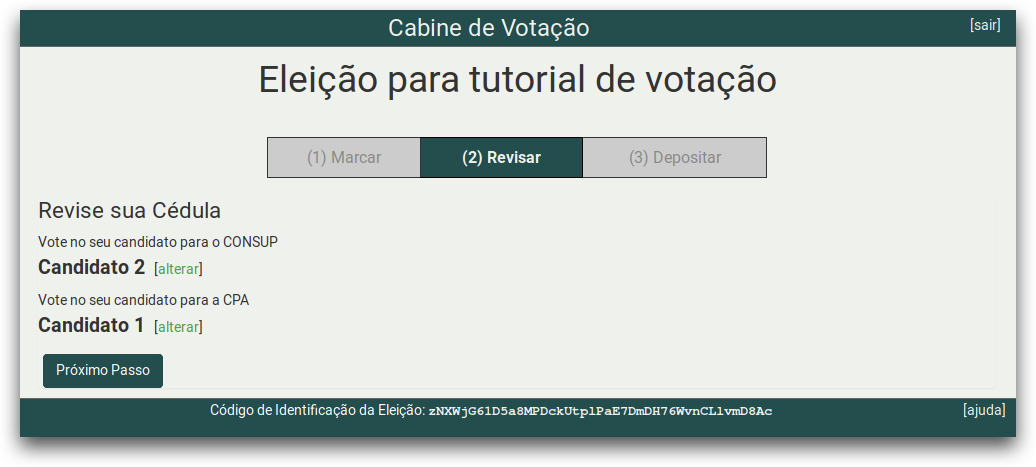
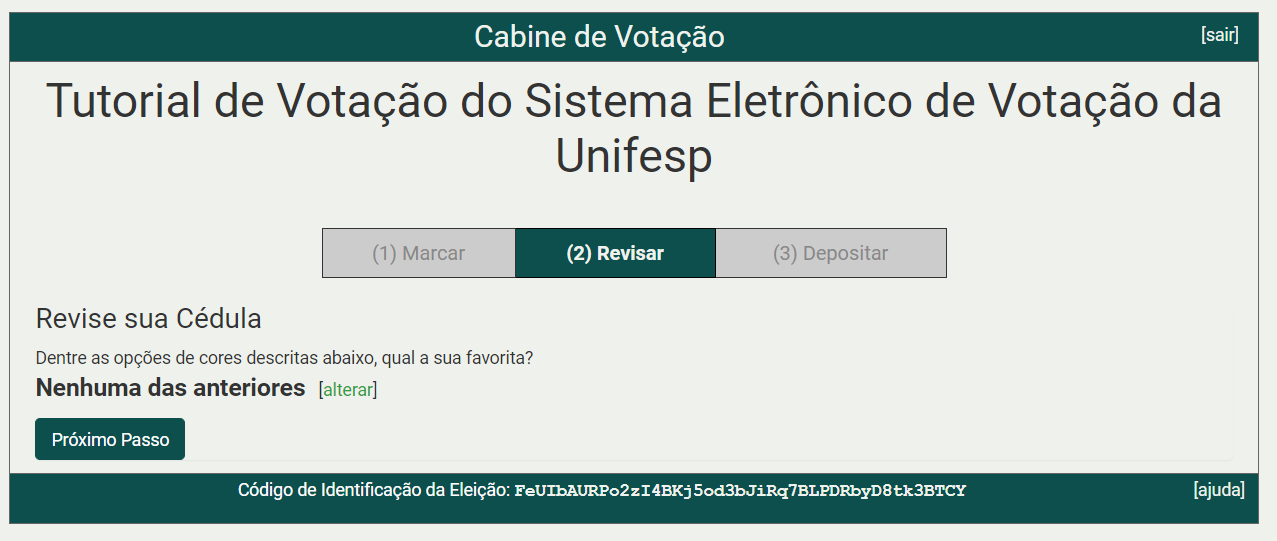
Alteração no tutorial de votação

Changed region(s): [[0.0, 0.0, 0.9884, 0.9893]]

diff --git a/volumes/helios-server/ajuda/index.html b/volumes/helios-server/ajuda/index.html
@@ -205,21 +205,21 @@
                 <h1 id="como-votar-usando-o-sistema-de-votacao-eletronica">Como votar usando o sistema de votação eletrônica</h1>
 <ol>
 <li>
-<p>Para votar use as informações que recebeu por email (id do eleitor, senha e link da eleição).
-    <img alt="Autenticação do eleitor" src="./img/eleitor-01.png" title="Autenticação do eleitor" /></p>
+<p>Para votar, acesse o link da urna de votação e clique no botão <strong>Votar nesta Eleição</strong>.
+    <img alt="Urna de Votação" src="./img/eleitor-01.png" title="Urna de Votação" /></p>
 </li>
 <li>
 <p>A página inicial contém as instruções, clique no botão <strong>Iniciar</strong>
     <img alt="Tela inicial" src="./img/eleitor-02.png" title="Tela inicial com instruções" /></p>
 </li>
 <li>
-<p>Escolha somente um dos candidatos e se a eleição possuir mais de uma questão, então clique no botão <strong>Próxima Questão</strong>.</p>
-<p><img alt="Escolha um candidato para conselho deliberativo" src="./img/eleitor-03.png" title="Escolha um candidato para conselho deliberativo" /></p>
+<p>Escolha somente uma das opções e então clique no botão <strong>Próxima Passo</strong>.</p>
+<ul>
+  <li>Em determinadas votações pode haver mais de uma questão de votação e também as questões podem permitir escolher uma ou mais opções.</li>
+  </ul>
+<p><img alt="Escolha uma opção de votação" src="./img/eleitor-03.png" title="Escolha uma opção de votação" /></p>
 </li>
-<li>
-<p>Para a última questão escolha somente um dos candidatos e clique no botão <strong>Próximo passo</strong>.</p>
-<p><img alt="Escolha um candidato para conselho fiscal" src="./img/eleitor-04.png" title="Escolha um candidato para conselho fiscal" /></p>
-</li>
+
 <li>
 <p>Nesta etapa é possível revisar as escolhas de voto e caso esteja tudo correto clique no botão <strong>Próximo passo</strong>.</p>
 <ul>
@@ -228,16 +228,33 @@
 <p><img alt="Revisão das escolhas feitas" src="./img/eleitor-05.png" title="Revisão das escolhas feitas" /></p>
 </li>
 <li>
+
+  <p>Nesta etapa a sua cédula está cifrada e pronta para ser depositada na urna. clique no botão <strong>Depositar Cédula na Urna</strong> </p>
+  <p><img alt="Cédula cifrada" src="./img/eleitor-06.png" title="Cédula cifrada" /></p>
+
+</li>
+<li>
 <p>Ao depositar a cédula na urna eletrônica o voto será contabilizado para a referida eleição.
     <img alt="Cédula cifrada" src="./img/eleitor-06.png" title="Cédula foi cifrada" /></p>
 </li>
+
 <li>
-<p>Clique no botão <strong>Confirmar</strong> para depositar sua cédula na urna. Se não deseja depositar a cédula, clique no botão cancelar.
-    <img alt="Última chance antes de depositar" src="./img/eleitor-07.png" title="Última chance antes de depositar a cédula na urna" /></p>
+  <p>Será necessário se Autenticar com suas credenciais da Intranet Unifesp, para isso clique no botão <strong>Autenticar com minha conta da Intranet - Unifesp</strong>
+      <img alt="Autenticar com minha conta da Intranet - Unifesp" src="./img/eleitor-07.png" title="Autenticar com minha conta da Intranet - Unifesp" /></p>
+  </li>
+
+<li>
+  <p>Digite seu usuário e senha da Intranet Unifesp e clique no botão <strong>Conectar</strong>
+      <img alt="Conectar conta da Intranet - Unifesp" src="./img/eleitor-08.png" title="Conectar conta da Intranet - Unifesp" /></p>
+</li>
+
+<li>
+<p>Nesta etapa você está conectado com seu usuário. Clique no botão <strong>Confirmar</strong> para depositar sua cédula na urna. Se não deseja depositar a cédula, clique no botão cancelar.
+    <img alt="Última chance antes de depositar" src="./img/eleitor-09.png" title="Última chance antes de depositar a cédula na urna" /></p>
 </li>
 <li>
 <p>Parabéns, seu voto foi depositado com sucesso.
-    <img alt="Voto depositado com sucesso" src="./img/eleitor-08.png" title="Tela final - voto depositado com sucesso" /></p>
+    <img alt="Voto depositado com sucesso" src="./img/eleitor-10.png" title="Tela final - voto depositado com sucesso" /></p>
 </li>
 </ol>
 <p><strong>Atenção:</strong> O sistema Helios permite que você deposite cédulas na urna quantas vezes desejar. Porém, somente a última cédula depositada é a que será contabilizada na apuração da urna. Todas as cédulas anteriores serão descartadas.  </p>
